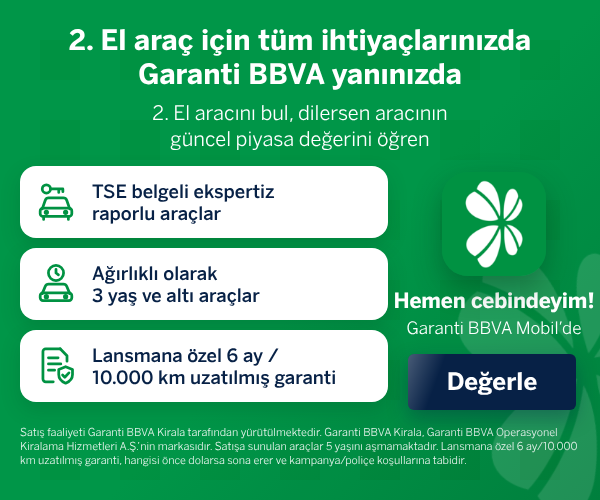
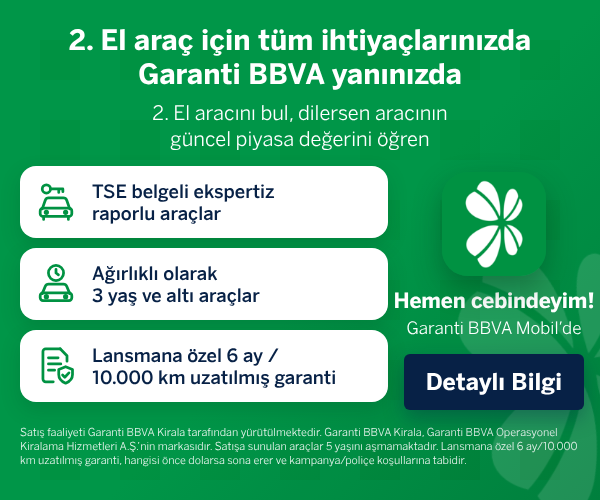
Adform tıklama ve gösterim takibi; 2. sahne CTA 'Detaylı Bilgi'
970x250 ve 300x250: tıklamalar Adform click tracker'a (bn=90843320)
yönlendirildi, açılışta 1x1 Adform gösterim sayacı önbellek kırıcıyla
yükleniyor; 2. sahne butonu 'Değerle' yerine 'Detaylı Bilgi'.

Claude-Session: https://claude.ai/code/session_01Svh2Hwc9MoPZamfeY2MKHe

Changed region(s): [[0.66, 0.69, 0.99, 0.84]]

diff --git a/garanti-2el-arac-300x250/index.html b/garanti-2el-arac-300x250/index.html
@@ -6,9 +6,13 @@
 <meta name="viewport" content="width=device-width, initial-scale=1">
 <title>Garanti BBVA 2. El Araç 300x250</title>
 <script>
-  /* Ad server tıklama hedefleri */
-  var clickTag  = "https://www.garantibbva.com.tr/";   /* Sahne 1 – Detaylı Bilgi */
-  var clickTag2 = "https://www.garantibbva.com.tr/";   /* Sahne 2 – Değerle */
+  /* Adform tıklama takibi (bn=90843320). ${GDPR} / ${GDPR_CONSENT_50} makrolarını reklam sunucusu doldurur. */
+  var ADFORM_CLICK = "https://track.adform.net/C/?bn=90843320;gdpr=${GDPR};gdpr_consent=${GDPR_CONSENT_50}";
+  var clickTag  = ADFORM_CLICK;   /* Sahne 1 – Detaylı Bilgi */
+  var clickTag2 = ADFORM_CLICK;   /* Sahne 2 – Detaylı Bilgi */
+
+  /* Adform gösterim sayacı (1x1), [timestamp] yerine önbellek kırıcı */
+  var ADFORM_IMPRESSION = "https://track.adform.net/adfserve/?bn=90843320;1x1inv=1;srctype=3;gdpr=${GDPR};gdpr_consent=${GDPR_CONSENT_50};ord=[timestamp]";
 </script>
 <style>
 /*FONTS*/
@@ -52,7 +56,7 @@ img{position:absolute;display:block;pointer-events:none;-webkit-user-drag:none}
 @keyframes shine{0%,70%{background-position:120% 0}100%{background-position:-120% 0}}
 .cta1{left:14px;top:212px;height:28px;padding:0 14px;font-size:12px;font-weight:700;background:var(--green);box-shadow:0 3px 8px rgba(0,146,66,.3)}
 
-/* ---------- SAHNE 2 · Değerle (yeşil) ---------- */
+/* ---------- SAHNE 2 · Detaylı Bilgi (yeşil) ---------- */
 .s2{background:
     linear-gradient(135deg,var(--green) 0%,var(--green) 55%,var(--green-dk) 100%);
   clip-path:inset(0 0 0 100%);-webkit-clip-path:inset(0 0 0 100%)}
@@ -63,7 +67,7 @@ img{position:absolute;display:block;pointer-events:none;-webkit-user-drag:none}
 .s2 .copy{position:absolute;left:10px;width:280px;top:12px;text-align:center;color:#fff}
 .s2 .copy h2{font-weight:700;font-size:14px;line-height:17px}
 .s2 .copy p{margin-top:5px;font-weight:400;font-size:10px;line-height:12.5px}
-.cta2{left:204px;top:177px;width:84px;height:28px;font-size:12px;font-weight:700;background:var(--navy);box-shadow:0 4px 10px rgba(7,33,70,.35)}
+.cta2{left:202px;top:177px;width:90px;height:28px;font-size:11.5px;font-weight:700;background:var(--navy);box-shadow:0 4px 10px rgba(7,33,70,.35)}
 
 .cards{position:absolute;left:10px;top:83px;width:184px}
 .card{display:flex;align-items:center;gap:7px;height:36px;margin-bottom:5px;padding:0 7px;border-radius:8px;
@@ -154,7 +158,7 @@ img{position:absolute;display:block;pointer-events:none;-webkit-user-drag:none}
       <h2 class="c">2. El araç için tüm ihtiyaçlarınızda<br>Garanti BBVA yanınızda</h2>
       <p class="c" style="transition-delay:.15s">2. El aracını bul, dilersen aracının<br>güncel piyasa değerini öğren</p>
     </div>
-    <button class="cta cta2 c" data-click="2" style="transition-delay:.3s">Değerle</button>
+    <button class="cta cta2 c" data-click="2" style="transition-delay:.3s">Detaylı Bilgi</button>
   </div>
 
   <!-- AYIRICI -->
@@ -293,6 +297,16 @@ img{position:absolute;display:block;pointer-events:none;-webkit-user-drag:none}
   copyShown = true; setPos(150);
   if(document.fonts && document.fonts.ready){ document.fonts.ready.then(start); } else { window.addEventListener('load', start); }
 })();
+</script>
+
+<script>
+  (function(){
+    var px = new Image(1,1);
+    px.src = ADFORM_IMPRESSION.replace('[timestamp]', Date.now() + '' + Math.floor(Math.random()*1e6));
+    px.width = px.height = 1; px.border = 0; px.alt = '';
+    px.style.cssText = 'position:absolute;left:-9999px;width:1px;height:1px;border:0';
+    document.body.appendChild(px);
+  })();
 </script>
 </body>
 </html>

diff --git a/garanti-2el-arac-masthead/index.html b/garanti-2el-arac-masthead/index.html
@@ -6,9 +6,13 @@
 <meta name="viewport" content="width=device-width, initial-scale=1">
 <title>Garanti BBVA 2. El Araç Masthead</title>
 <script>
-  /* Ad server tıklama hedefleri */
-  var clickTag  = "https://www.garantibbva.com.tr/";   /* Sahne 1 – Detaylı Bilgi */
-  var clickTag2 = "https://www.garantibbva.com.tr/";   /* Sahne 2 – Değerle */
+  /* Adform tıklama takibi (bn=90843320). ${GDPR} / ${GDPR_CONSENT_50} makrolarını reklam sunucusu doldurur. */
+  var ADFORM_CLICK = "https://track.adform.net/C/?bn=90843320;gdpr=${GDPR};gdpr_consent=${GDPR_CONSENT_50}";
+  var clickTag  = ADFORM_CLICK;   /* Sahne 1 – Detaylı Bilgi */
+  var clickTag2 = ADFORM_CLICK;   /* Sahne 2 – Detaylı Bilgi */
+
+  /* Adform gösterim sayacı (1x1), [timestamp] yerine önbellek kırıcı */
+  var ADFORM_IMPRESSION = "https://track.adform.net/adfserve/?bn=90843320;1x1inv=1;srctype=3;gdpr=${GDPR};gdpr_consent=${GDPR_CONSENT_50};ord=[timestamp]";
 </script>
 <style>
 /*FONTS*/
@@ -55,7 +59,7 @@ img{position:absolute;display:block;pointer-events:none;-webkit-user-drag:none}
 @keyframes shine{0%,70%{background-position:120% 0}100%{background-position:-120% 0}}
 .cta1{left:44px;top:184px;height:36px;padding:0 24px;font-size:15px;font-weight:700;background:var(--green);box-shadow:0 4px 10px rgba(0,146,66,.3)}
 
-/* ---------- SAHNE 2 · Değerle (yeşil) ---------- */
+/* ---------- SAHNE 2 · Detaylı Bilgi (yeşil) ---------- */
 .s2{background:
     linear-gradient(135deg,var(--green) 0%,var(--green) 55%,var(--green-dk) 100%);
   clip-path:inset(0 0 0 100%);-webkit-clip-path:inset(0 0 0 100%)}
@@ -66,7 +70,7 @@ img{position:absolute;display:block;pointer-events:none;-webkit-user-drag:none}
 .s2 .copy{position:absolute;left:512px;width:450px;top:40px;text-align:center;color:#fff}
 .s2 .copy h2{font-weight:700;font-size:21px;line-height:26px;letter-spacing:-.1px}
 .s2 .copy p{margin-top:12px;font-weight:400;font-size:14px;line-height:19px}
-.cta2{left:682px;top:160px;width:112px;height:42px;font-size:16px;background:var(--navy);box-shadow:0 5px 12px rgba(7,33,70,.35)}
+.cta2{left:667px;top:160px;width:140px;height:42px;font-size:16px;background:var(--navy);box-shadow:0 5px 12px rgba(7,33,70,.35)}
 
 .cards{position:absolute;left:24px;top:20px;width:240px}
 .card{display:flex;align-items:center;gap:11px;height:56px;margin-bottom:8px;padding:0 12px;border-radius:11px;
@@ -164,7 +168,7 @@ img{position:absolute;display:block;pointer-events:none;-webkit-user-drag:none}
       <h2 class="c">2. El araç için tüm ihtiyaçlarınızda<br>Garanti BBVA yanınızda</h2>
       <p class="c" style="transition-delay:.15s">2. El aracını bul, dilersen aracının güncel piyasa değerini öğren</p>
     </div>
-    <button class="cta cta2 c" data-click="2" style="transition-delay:.3s">Değerle</button>
+    <button class="cta cta2 c" data-click="2" style="transition-delay:.3s">Detaylı Bilgi</button>
   </div>
 
   <!-- AYIRICI -->
@@ -303,6 +307,16 @@ img{position:absolute;display:block;pointer-events:none;-webkit-user-drag:none}
   copyShown = true; setPos(485);
   if(document.fonts && document.fonts.ready){ document.fonts.ready.then(start); } else { window.addEventListener('load', start); }
 })();
+</script>
+
+<script>
+  (function(){
+    var px = new Image(1,1);
+    px.src = ADFORM_IMPRESSION.replace('[timestamp]', Date.now() + '' + Math.floor(Math.random()*1e6));
+    px.width = px.height = 1; px.border = 0; px.alt = '';
+    px.style.cssText = 'position:absolute;left:-9999px;width:1px;height:1px;border:0';
+    document.body.appendChild(px);
+  })();
 </script>
 </body>
 </html>

diff --git a/garanti-2el-arac-300x250/README.md b/garanti-2el-arac-300x250/README.md
@@ -3,8 +3,15 @@
 970×250 masthead'in (`../garanti-2el-arac-masthead/`) 300×250 uyarlaması. Aynı kurgu: iki sahne arasında sürüklenebilir ayırıcı, açılışta el imleciyle ipucu, uçta 5 sn kalınca ortaya dönüş, ← → ile klavye kontrolü.
 
 - **Sahne 1 (KV):** "Garanti BBVA Mobil’den / 2. el aracınızı satın alın, / yola garantili çıkın! / Çünkü birlikte yaparız." + "Detaylı Bilgi" butonu. Sosyal medya ikonları bu boyutta yer olmadığı için çıkarıldı.
-- **Sahne 2 (yeşil):** başlık, alt metin, 3 özellik kartı, Garanti BBVA Mobil ikonu, "Değerle" butonu ve yasal metin.
+- **Sahne 2 (yeşil):** başlık, alt metin, 3 özellik kartı, Garanti BBVA Mobil ikonu, "Detaylı Bilgi" butonu ve yasal metin.
 - Renkler ve font 970×250 ile aynı (`#15519c`, `#004481`, `#072146`, `#009242`; Benton Sans BBVA woff2).
-- Tıklama hedefleri `clickTag` (Sahne 1) / `clickTag2` (Sahne 2).
 
 Teslim paketi: `../release/garanti-2el-arac-300x250.zip`.
+
+## Adform takibi
+
+- **Tıklama:** Her iki sahnenin butonu ("Detaylı Bilgi") ve banner yüzeyi Adform tıklama adresine gider:
+  `https://track.adform.net/C/?bn=90843320;gdpr=${GDPR};gdpr_consent=${GDPR_CONSENT_50}`
+  (`index.html` başındaki `ADFORM_CLICK` değişkeni).
+- **Gösterim:** Sayfa açılınca 1x1 Adform sayacı bir kez yüklenir; `ord=[timestamp]` yerine her gösterimde benzersiz önbellek kırıcı yazılır (`ADFORM_IMPRESSION`).
+- `${GDPR}` ve `${GDPR_CONSENT_50}` makroları olduğu gibi bırakıldı; yayın tarafındaki reklam sunucusu doldurur.

diff --git a/garanti-2el-arac-masthead/README.md b/garanti-2el-arac-masthead/README.md
@@ -6,10 +6,17 @@ Kreatif ekip revizyonu:
 - **Renkler:** Kurumsal paletle değiştirildi; kod içindeki `:root` değişkenleri:
   - `--kv-blue #15519c` KV başlık mavisi – 1. sahne başlığı
   - `--blue #004481` BBVA mavisi (logodaki BBVA yazısı) – sosyal ikonlar
-  - `--navy #072146` lacivert – metinler, "Değerle" butonu
+  - `--navy #072146` lacivert – metinler, "Detaylı Bilgi" butonu
   - `--green #009242` Garanti yeşili (Garanti BBVA Mobil ikonu) – "Detaylı Bilgi" butonu, vurgu, 2. sahne zemini
   - Önceki teal `#13a3a5` ve `#1952A0` tonları kaldırıldı.
 - **Font:** Inter yerine kurumsal **Benton Sans BBVA** (Book 400 / Medium 500 / Bold 700), Latin + Türkçe karakter alt kümesi, woff2 (`assets/`).
 
 Teslim paketi: `../release/garanti-2el-arac-masthead.zip` (index.html + assets).
-Tıklama hedefleri `clickTag` / `clickTag2` değişkenlerinde.
+
+## Adform takibi
+
+- **Tıklama:** Her iki sahnenin butonu ("Detaylı Bilgi") ve banner yüzeyi Adform tıklama adresine gider:
+  `https://track.adform.net/C/?bn=90843320;gdpr=${GDPR};gdpr_consent=${GDPR_CONSENT_50}`
+  (`index.html` başındaki `ADFORM_CLICK` değişkeni).
+- **Gösterim:** Sayfa açılınca 1x1 Adform sayacı bir kez yüklenir; `ord=[timestamp]` yerine her gösterimde benzersiz önbellek kırıcı yazılır (`ADFORM_IMPRESSION`).
+- `${GDPR}` ve `${GDPR_CONSENT_50}` makroları olduğu gibi bırakıldı; yayın tarafındaki reklam sunucusu doldurur.
